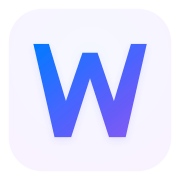
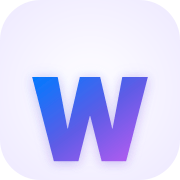
restore: WallioIcon glass iOS26 + WallioLogo W gradient — revert VS Code changes

Changed region(s): [[0.1667, 0.2222, 0.8333, 0.9167]]

diff --git a/components/WallioIcon.tsx b/components/WallioIcon.tsx
@@ -1,17 +1,31 @@
+import WallioLogo from "./WallioLogo";
+
 interface WallioIconProps {
   size?: number;
   className?: string;
 }
 
 export default function WallioIcon({ size = 48, className }: WallioIconProps) {
+  const radius = Math.round(size * 0.26);
   return (
-    <img
-      src="/icon.svg"
-      width={size}
-      height={size}
-      alt="Wallio"
+    <div
       className={className}
-      style={{ flexShrink: 0, display: "block" }}
-    />
+      style={{
+        width: size,
+        height: size,
+        borderRadius: radius,
+        flexShrink: 0,
+        background: "rgba(255,255,255,0.72)",
+        backdropFilter: "blur(20px)",
+        WebkitBackdropFilter: "blur(20px)",
+        border: "1.5px solid rgba(255,255,255,0.92)",
+        boxShadow: "0 8px 24px rgba(91,124,250,0.18), inset 0 1.5px 0 rgba(255,255,255,0.85)",
+        display: "flex",
+        alignItems: "center",
+        justifyContent: "center",
+      }}
+    >
+      <WallioLogo size={Math.round(size * 0.68)} />
+    </div>
   );
 }

diff --git a/components/WallioLogo.tsx b/components/WallioLogo.tsx
@@ -4,9 +4,9 @@ export default function WallioLogo({ size = 32, color }: { size?: number; color?
       {!color && (
         <defs>
           <linearGradient id="wGrad" x1="0%" y1="0%" x2="100%" y2="100%">
-            <stop offset="0%" stopColor="#007AFF"/>
-            <stop offset="50%" stopColor="#5E5CE6"/>
-            <stop offset="100%" stopColor="#BF5AF2"/>
+            <stop offset="0%"   stopColor="#007AFF" />
+            <stop offset="50%"  stopColor="#5E5CE6" />
+            <stop offset="100%" stopColor="#BF5AF2" />
           </linearGradient>
         </defs>
       )}
